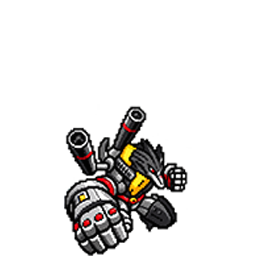
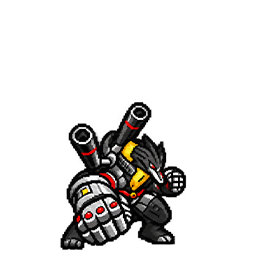
v.0.14.f

Changed region(s): [[0.2188, 0.375, 0.75, 1.0]]

diff --git a/index.html b/index.html
@@ -3,7 +3,7 @@
 <head>
 <meta charset="utf-8" />
 <meta name="viewport" content="width=device-width,initial-scale=1,minimum-scale=1,maximum-scale=1,viewport-fit=cover" />
-<title>디지몬 RE:서바이버 v.0.14.d 고정 속성 피해 테스트</title>
+<title>디지몬 RE:서바이버 v.0.14.f</title>
 <style>
 :root{--bg:#0d1220;--panel:#151d2f;--panel2:#202a42;--text:#f4f7ff;--muted:#aeb9d1;--accent:#60d5ff;--danger:#ff4d5f;--good:#66e3b4;--gold:#ffd166;--rare:#5fa8ff;--epic:#b66cff;--legend:#ffc94d}
 *{box-sizing:border-box}html,body{margin:0;background:#090d16;color:var(--text);font-family:system-ui,-apple-system,Segoe UI,Roboto,sans-serif;overflow:hidden}button{font:inherit}.screen{position:fixed;inset:0;display:none}.screen.active{display:flex}
@@ -56,7 +56,7 @@
 </style>
 </head>
 <body>
-<section id="menu" class="screen active"><div class="menu-card"><div class="logo">디지몬 RE:서바이버</div><div class="subtitle">HTML5 Prototype · 커서 평타 테스트 · 디지몬 도감 / 전 형태 체험장</div><button class="mainbtn" id="startBtn">게임 시작</button><div id="buildBadge" style="margin-top:16px;color:#9dc6de;font-size:13px">BUILD v.0.14.d · FIXED ELEMENT TEST</div><div class="audioSettings" role="group" aria-label="음량 조절"><strong>음량 조절</strong><div class="audioSettingRow"><label for="menuBgmVolume">배경 음악</label><input id="menuBgmVolume" type="range" min="0" max="100" step="1" value="100" aria-label="BGM 음량"><output id="menuBgmPercent" for="menuBgmVolume">100%</output></div><div class="audioSettingRow"><label for="menuSfxVolume">타격 효과음</label><input id="menuSfxVolume" type="range" min="0" max="100" step="1" value="100" aria-label="타격 효과음 음량"><output id="menuSfxPercent" for="menuSfxVolume">100%</output></div></div><div class="game-credits">이 게임은 GPT를 이용해 제작되었습니다.<br>BGM 출처: <b>BgmManJX</b> YouTube</div></div></section>
+<section id="menu" class="screen active"><div class="menu-card"><div class="logo">디지몬 RE:서바이버</div><div class="subtitle">HTML5 Prototype · 커서 평타 테스트 · 디지몬 도감 / 전 형태 체험장</div><button class="mainbtn" id="startBtn">게임 시작</button><div id="buildBadge" style="margin-top:16px;color:#9dc6de;font-size:13px">BUILD v.0.14.f</div><div class="audioSettings" role="group" aria-label="음량 조절"><strong>음량 조절</strong><div class="audioSettingRow"><label for="menuBgmVolume">배경 음악</label><input id="menuBgmVolume" type="range" min="0" max="100" step="1" value="100" aria-label="BGM 음량"><output id="menuBgmPercent" for="menuBgmVolume">100%</output></div><div class="audioSettingRow"><label for="menuSfxVolume">타격 효과음</label><input id="menuSfxVolume" type="range" min="0" max="100" step="1" value="100" aria-label="타격 효과음 음량"><output id="menuSfxPercent" for="menuSfxVolume">100%</output></div></div><div class="game-credits">이 게임은 GPT를 이용해 제작되었습니다.<br>BGM 출처: <b>BgmManJX</b> YouTube</div></div></section>
 <section id="select" class="screen"><div class="charselect-wrap"><h1 class="charselect-title">시작 디지몬 선택</h1><div class="charselect-sub">모든 시작 디지몬 중 하나를 확정 선택합니다. 동료 디지몬은 런 도중 디지에그에서 랜덤으로 만납니다.</div><div class="charselect-layout"><div class="char-grid" id="charGrid"></div><div class="char-detail" id="charDetail"></div></div><div class="select-actions"><button class="mainbtn ghost" id="openCodex" type="button">디지몬 도감</button> <button class="mainbtn" id="playBtn">이 디지몬으로 시작</button></div></div></section>
 <section id="catalog" class="screen"><div class="codex-shell"><div class="codex-top"><button id="codexBack" type="button">← 선택 화면</button><div><h1>디지몬 도감</h1><p id="codexCount">계통별 도감</p></div><input class="codex-search" id="codexSearch" type="search" placeholder="이름으로 계통 찾기" aria-label="디지몬 검색"></div><div class="codex-layout"><div class="codex-list" id="codexList"></div><div class="codex-right"><div class="codex-detail" id="codexDetail"></div><div class="codex-footer"><span class="hint">체험 결과는 게임 진행에 반영되지 않습니다.</span><button class="mainbtn" id="codexTry" type="button">체험하기</button></div></div></div></div></section>
 <section id="game" class="screen"><div class="gamewrap"><canvas id="c"></canvas><div id="mobileControls" hidden aria-label="모바일 게임 조작">
@@ -70,7 +70,7 @@
   </div></div>
  </div><div id="mobileLandscapeGate" aria-label="가로 화면 필요"><div class="mobileLandscapeCard"><div class="mobileLandscapeIcon" aria-hidden="true">↻</div><strong>휴대전화를 가로로 돌려 주세요</strong><p>가로 화면에서 게임이 화면을 가득 채웁니다.<br>화면 회전 잠금이 켜져 있다면 해제해 주세요.</p><button id="mobileFullscreenRetry" type="button">가로 전체화면 다시 시도</button></div></div><div id="storyDialogue" class="storyDialogue" role="dialog" aria-live="polite"><div class="storyPanel"><div id="storySpeaker" class="storySpeaker"></div><div id="storyText" class="storyText"></div><div class="storyHint">아무 키나 눌러 계속</div></div></div><div id="practiceHud" class="practicePanel"><b>디지몬 체험장</b><p>WASD 이동 · 커서 방향 자동 평타 · 좌클릭 E 스킬<br>가오몬 복싱 중 좌/우클릭 입력 · Q 궁극기<br>궁극기와 스킬은 버튼으로 다시 충전할 수 있습니다.</p><button id="practiceRecharge" type="button">스킬·Q 충전</button><button id="practiceTargets" type="button">연습 적 재배치</button><button id="practiceExit" type="button">도감으로 돌아가기</button></div><div class="hud"><div class="topbar"><div class="hudbox" id="runInfo">Lv.1</div><div class="hudbox" id="statsInfo"></div><div class="hudbox basicMode" id="basicMode" data-mode="auto">커서 방향 자동 평타 · 좌클릭 E</div></div><div class="objective" id="objective">목표: <span>다음 전투 구역으로 이동</span></div><div class="controls hudbox">WASD 이동 · 커서 방향 자동 평타 · 좌클릭 E 스킬<br>복싱 중 좌/우클릭 콤보 · 우클릭 대쉬 · Q 궁극기 · Space/C 태그<br>1/2/3 서브웨폰 · Z 진화 · ESC 상태</div><div class="bossbar" id="bossbar"><div style="text-align:center;font-weight:800;margin-bottom:5px">BOSS</div><div class="bar"><div class="fill" id="bossFill" style="width:100%"></div></div></div><div class="party" id="partyHud"></div><div class="skillHud" id="skillHud"><div class="skillSlot" id="eSlot"></div><div class="skillSlot" id="sub1"></div><div class="skillSlot" id="sub2"></div><div class="skillSlot" id="sub3"></div></div><div class="dash" id="dashHud"><div class="dashHead"><span>DASH</span><span id="dashText" class="dashHint">2 / 2</span></div><div class="dashGauge" id="dashOrbs"></div></div><div id="redFlash" class="flash red"></div><div id="blueFlash" class="flash blue"></div><div id="whiteFlash" class="flash white"></div><div id="statusMsg" class="statusmsg"></div><div id="ultShade" class="ultShade"></div><div id="ultName" class="ultName"></div><div class="modal" id="modal"><div class="modalcard"><h2 id="modalTitle">보상 선택</h2><p id="modalSub" class="hint"></p><div class="choices" id="choices"></div><div style="margin-top:12px;text-align:right"><button class="equipBtn" id="rerollBtn" style="display:none">리롤</button></div></div></div><div class="statusOverlay" id="statusOverlay"><div class="statusPanel"><div class="statusHeader"><div><h2>파티 상태</h2><div class="hint">ESC로 닫기 · 스탯 / 속성 / 디지털 조각 / 빌드 친화 / 진화 조건 / 스킬</div></div><button class="statusClose" id="statusClose">닫기</button></div><div class="audioSettings" role="group" aria-label="음량 조절"><strong>음량 조절</strong><div class="audioSettingRow"><label for="statusBgmVolume">배경 음악</label><input id="statusBgmVolume" type="range" min="0" max="100" step="1" value="100" aria-label="BGM 음량"><output id="statusBgmPercent" for="statusBgmVolume">100%</output></div><div class="audioSettingRow"><label for="statusSfxVolume">타격 효과음</label><input id="statusSfxVolume" type="range" min="0" max="100" step="1" value="100" aria-label="타격 효과음 음량"><output id="statusSfxPercent" for="statusSfxVolume">100%</output></div></div><div class="statusGrid" id="statusGrid"></div></div></div></div></div></section>
 <div id="gameErrorNotice" hidden style="position:fixed;left:12px;top:12px;z-index:200;max-width:min(90vw,650px);padding:10px 14px;background:#501823;color:white;border:2px solid #ff8492;border-radius:8px;font:13px/1.5 sans-serif;pointer-events:none"></div>
-<script src="patch.js?v=0.14.d-duration-balance-test2"></script>
+<script src="patch.js?v=0.14.f-sprite-pack1"></script>
 
 </body>
 </html>

diff --git a/README.md b/README.md
@@ -1,10 +1,10 @@
-# 디지몬 RE:서바이버 v.0.14.d
+# 디지몬 RE:서바이버 v.0.14.f
 
 ## 실행 및 GitHub Pages 업데이트
 
 전체판 ZIP의 **내용물**인 `index.html`, `patch.js`, `mobile_controls.css`, `assets/`를 한 폴더에 풀고 `index.html`을 엽니다. GitHub Pages에는 ZIP 자체를 올리지 말고 압축을 푼 파일과 폴더를 저장소 루트에 덮어씁니다. 파일명 대소문자를 변경하지 마세요.
 
-기존 v.0.13.a 이상의 전체판을 이미 올려둔 경우, 작은 모바일 테스트 업데이트 ZIP의 내용물만 저장소에 덮어써도 됩니다. **`index.html`, `patch.js`, `mobile_controls.css`를 함께** 저장소 루트에 올려야 합니다. 작은 패치에는 초반 적 네 종의 도트와 설명서도 들어 있습니다. 나머지 음악·도트는 기존 저장소에 있어야 합니다. 배포 직후 구 버전이 보이면 강력 새로고침합니다.
+기존 v.0.14.d 전체판을 이미 올려둔 경우, v.0.14.f GitHub 업데이트 ZIP을 풀어 **`index.html`, `patch.js`, `mobile_controls.css`, `assets/` 전체를 함께** 저장소 루트에 덮어쓰면 됩니다. 업데이트판에는 이번에 추가·교체된 도트만 들어 있으므로 기존 BGM과 다른 도트 파일을 삭제하지 마세요. 처음 설치하거나 기존 파일 상태가 불확실하면 전체판을 사용하세요. 배포 후 구 버전이 보이면 강력 새로고침합니다.
 
 시작 화면과 ESC 상태창의 **음량 조절**에서 BGM과 타격 효과음을 각각 0~100%로 조절합니다. 100%가 기존 기본 음량이며 설정은 브라우저에 저장됩니다. 일반 전투·보스·진화 음악에 동일하게 적용됩니다.
 
@@ -18,6 +18,8 @@ WASD 이동 · 커서 방향 자동 평타 · 좌클릭/E 스킬 · Q 궁극기 
 
 v.0.14의 실제 진화 경로에 따른 사용속성 계승, 상점 구매·판매·찜하기, 일반 엔딩과 함께, v.0.14.a에서 로딩 오류로 적용되지 않았던 상세 도움말·보상 명칭을 복구했습니다. v.0.14.d에서 누락된 과충전 보상의 이름과 설명도 통일했습니다. 자세한 내용은 `PATCH_NOTES_v0.14.md`를 확인하세요.
 
+v.0.14.f는 제공된 최신 도트를 기존 전체판에 적용했습니다. 이동·기본공격·스킬 애니메이션은 실제 제공된 프레임만 읽으며 한 방향만 있는 도트는 게임 화면에서 좌우 반전합니다. 궁극기 컷인은 제공된 이미지를 유지하고 궁극기 중 캐릭터 도트 애니메이션은 재생하지 않습니다.
+
 제작: GPT 활용 · BGM 출처: BgmManJX YouTube
 
 궁극기 충전효율 감소는 각 타격의 충전량에 먼저 적용됩니다. 게이지가 99일 때도 같은 비율로 충전됩니다.
@@ -25,11 +27,12 @@ v.0.14의 실제 진화 경로에 따른 사용속성 계승, 상점 구매·판
 ### v.0.14.d
 - 이그드라실의 장판 경고를 실제 예약된 공격 범위와 함께 그립니다.
 - HP 0 동료의 이탈을 즉시 처리하고, 재영입 알 쿨다운이 끝나면 구조 알이 생성됩니다.
+- 진화 패시브 레벨은 기존 계통과 에렉몬·베타몬 신규 계통 모두 실제 진화 이력을 따릅니다. 같은 패시브의 진화를 거칠 때마다 +1이며 상점에서 즉시 영입한 진화체는 해당 패시브 Lv.1부터 시작합니다.
 
 ### 모바일 조작 테스트판
 휴대폰에서 같은 GitHub Pages 주소로 접속하면 두 레버와 터치 버튼이 표시됩니다. PC에서도 `?mobile=1`을 주소 끝에 붙여 미리 볼 수 있고, `?mobile=0`으로 터치 UI를 숨길 수 있습니다. 게임 시작/체험하기를 누르면 브라우저에 전체화면과 가로 고정을 요청합니다. 지원되지 않는 브라우저에서는 가로로 돌리라는 안내가 나오며, 기기의 화면 회전 잠금을 풀고 직접 돌려야 합니다. 가로 상태에서는 현재 브라우저 화면을 가득 채웁니다. 전체화면·자동 회전은 브라우저/기기 정책에 따라 거부될 수 있습니다.
 왼쪽은 이동 레버만 사용하고, 오른쪽 E·Q 버튼 왼편에 태그/대쉬 버튼이 있습니다. 모바일 평타는 사거리 안의 가까운 적을 자동조준합니다. 오른쪽 E/Q 원형 버튼을 누른 채 방향으로 끌어 조준하고 손을 떼면 발동합니다. 해당 방향의 가까운 적을 자동지정해 위치 지정형 스킬과 궁극기도 적을 겨냥합니다. 버튼을 짧게 탭하면 가까운 적을 지정합니다. 오른쪽 아래 서브웨폰 1~3은 즉시 사용합니다. 복싱 모드에서는 E 조준 버튼을 놓으면 왼손 펀치, 대쉬 버튼은 오른손 콤보 입력입니다. 상단에 진화와 상태/도움말 버튼이 있습니다.
-GitHub 업데이트 ZIP은 `index.html`, `patch.js`, `mobile_controls.css`를 함께 저장소 루트에 덮어써야 합니다. 이 테스트판은 정식 넘버링을 올리지 않았습니다.
+GitHub 업데이트 ZIP은 `index.html`, `patch.js`, `mobile_controls.css`와 함께 새 `assets/` 파일도 저장소 루트에 덮어써야 합니다.
 
 ### 동료 위치 및 소규모 밸런스 패치
 메인몬이 커서를 따라 오른쪽을 보면 동료들은 왼쪽으로, 왼쪽을 보면 오른쪽으로 걸어서 자리를 바꿉니다. 쥬엘비몬·반쵸스팅몬의 E 연타는 첫 타에만 자연 스택 1개를 부여합니다. 메기드라몬은 상시 피해 감소 25%, 직접 피해 흡혈 50%, 잃은 체력 1%당 공격력 1% 상승(최대 100%)을 얻습니다. E 중 추가 피해 감소는 없고 HP가 1 아래로 떨어지지 않습니다. 지속 E의 남은 시간은 사용 디지몬의 머리 위에, 설치형 기술은 설치 지점에 게이지로 표시합니다.

diff --git a/PATCH_NOTES_v0.14.md b/PATCH_NOTES_v0.14.md
@@ -72,3 +72,15 @@
 - 이름·MAIN 및 디지털속성부터 스킬 지속시간까지 14개 능력치를 요청한 순서로 정리했습니다. 기본공격속도는 초당 타수, 이동속도·범위는 px, 피해와 궁극기 충전효율은 기본값 대비 배율로 보여 줍니다.
 - 진화 패시브의 클릭 상세보기와 실제 효과 설명을 한 항목에 합쳤습니다. 진화 투자에서는 0점 기록을 숨기고, 스킬에서는 별도의 사용속성·패시브 중복 행을 제거했습니다.
 - 특화 빌드, 유물, 서브웨폰 교체와 파티 유물 보관함을 유지했습니다. 오래된 v0.10 전투/분기 및 맨 아래 패시브 효과 항목을 제거했습니다.
+
+## v.0.14.d 진화 패시브 이력 수정 테스트
+- 패시브 레벨을 현재 진화체의 고정 단계가 아닌 실제 영입·진화 이력으로 계산합니다. 아구몬에서 진화한 그레이몬은 용기의 불꽃 Lv.2, 상점에서 직접 영입한 그레이몬은 Lv.1입니다.
+- 같은 패시브의 다음 형태로 진화할 때마다 레벨이 1 상승하며, 다른 패시브의 분기로 진화하면 이전 패시브의 레벨은 유지되고 새 패시브는 Lv.1부터 시작합니다. 고독 해제와 라라몬 출신 로제몬의 분기 효과는 기존 예외를 유지합니다.
+- 진화 선택 화면의 패시브 미리보기와 진화 직후 능력치 갱신에도 실제 이력을 적용하고 GitHub 배포용 JS 캐시 키를 갱신했습니다.
+- 에렉몬·레오몬 및 베타몬·시드라몬·에어드라몬의 최근 추가 계통도 공통 이력 계산에 편입했습니다. 상점에서 직접 구매한 상위 진화체는 현재 패시브 Lv.1이며, 진화로 얻은 이전 패시브만 이어받습니다. 시드라몬의 냉기 점수와 레오몬의 사망 버프도 실제 패시브 레벨을 사용합니다.
+- 디그몬·서브마리몬, 세인트가르고몬, 미타마몬의 누락된 계통 패시브 연결도 보완했습니다. 이 형태들도 직접 영입하면 해당 패시브 Lv.1부터 시작합니다.
+
+## v.0.14.f 최신 도트·애니메이션
+- 제공된 리소스 ZIP의 기본 도트 181종과 178종의 이동·평타·스킬 애니메이션을 영문 리소스 이름에서 게임 ID로 연결했습니다. Crowmon은 플레이어 야타가라몬과 적 크로우몬 양쪽에 적용하며, `Agumon(s)`, `Rapidmon (Armor)`, `Sakuyamon Miko Mode`, `Wizardmon` 등 이름이 다른 리소스도 정확한 경로로 정리했습니다.
+- 한 방향만 있는 캐릭터는 화면에서 반전하고 없는 프레임은 기존 기본 도트로 돌아갑니다. 원거리 캐릭터에 평타 프레임이 없다면 걷기/기본 도트만 유지합니다. 궁극기 컷인 27종을 새 리소스로 갱신했으며 궁극기 중 별도 캐릭터 도트 애니메이션은 재생하지 않습니다.
+- 기존 전체판의 BGM·효과음과 적 도트, 모바일 조작, 패시브 이력 수정을 포함했습니다. GitHub Pages용 스크립트 캐시 키와 타이틀도 v.0.14.f로 갱신했습니다.
